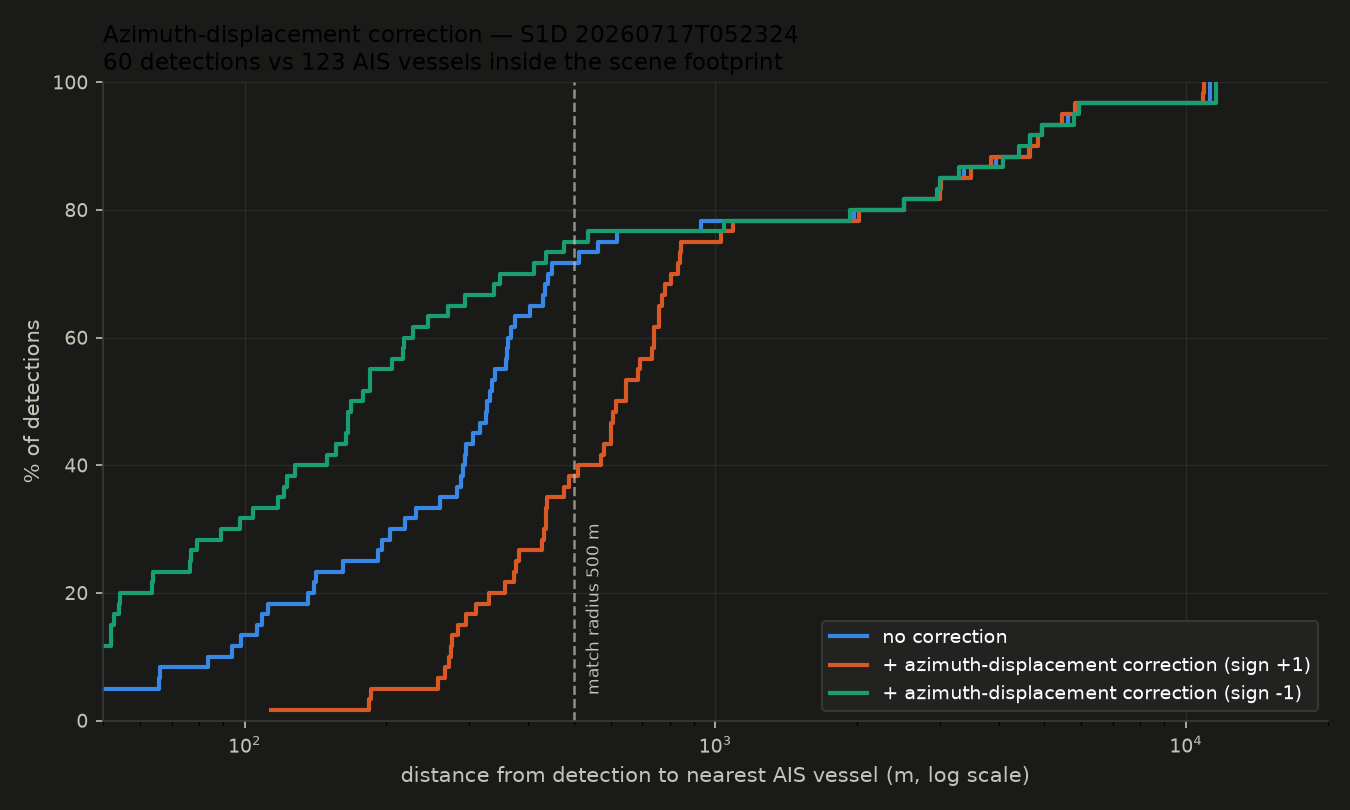
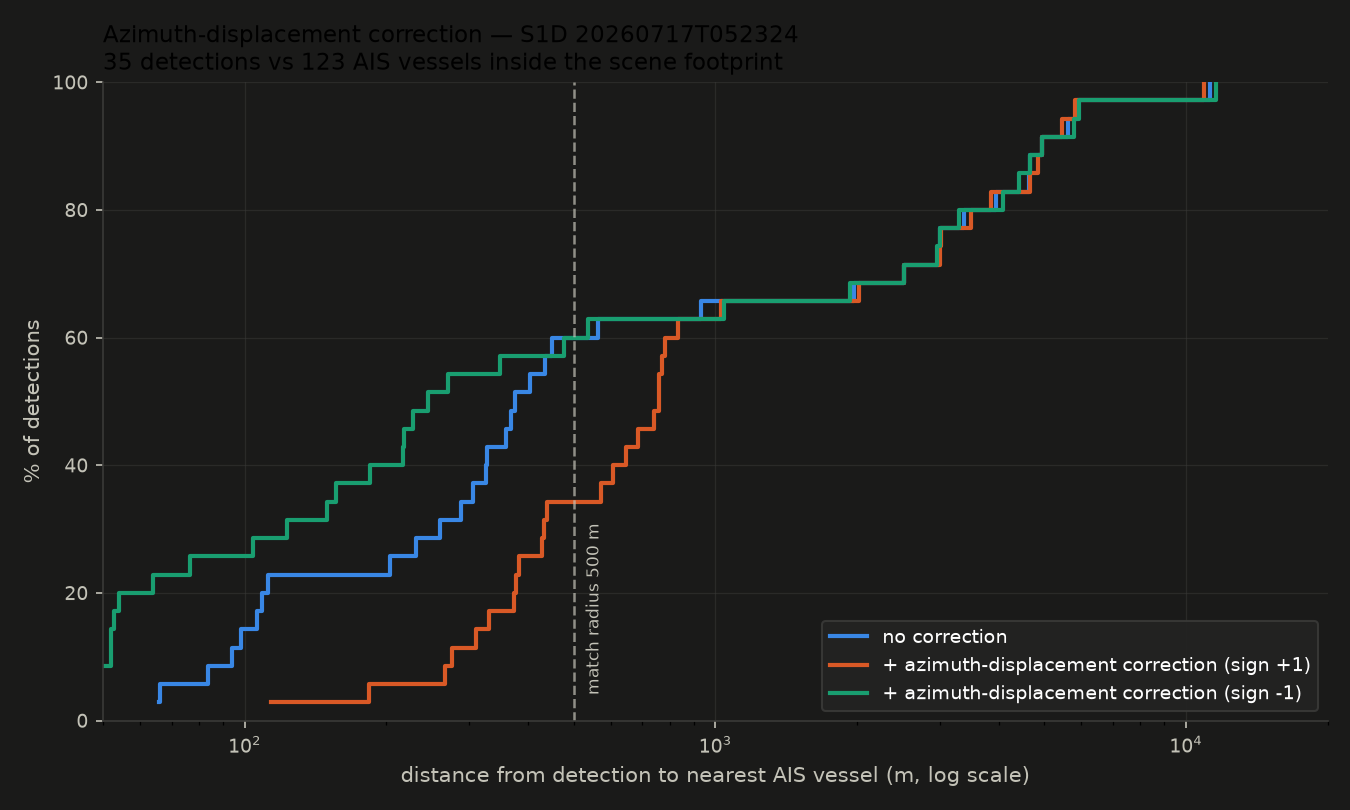
Figures that disagreed with the text underneath them, and counts that predate the merge
`docs/evidence/*.png` are committed snapshots copied by hand out of `data/out/`
and nothing enforces that they match. Four of them were still the 2026-08-03
snapshot, taken before 11761ed merged fragmented detections, so they had been
contradicting the prose around them for four days.

`length_agreement.png` was the loud one: "45 matched vessels, r = 0.198,
median 1.15x", sitting directly under text quoting r = 0.271 and 1.05x.
`chips_top.png` showed 48 chips for a 35-detection run. `overview.png` and
`azimuth_correction.png` both titled themselves 60 detections. All four are
replaced from `data/out/`, where the post-merge renders have been since Aug 4.

`map_result.png` is the one that could not be fixed by copying — `data/out/`
holds the same pre-merge bytes, because that render was never regenerated after
the merge. Its own title says 60 / 45 / 15. It is labelled as pre-merge in place
rather than quietly left to read as current; `make dark-proof` on a machine with
the granule fixes it properly.

Three tables carried pre-merge counts into a post-merge document:

- the azimuth-correction table claims 45 detections within 500 m, which is not
  possible against 35. It is the measurement that settled the sign, taken before
  merging, and now says so. Checked against the old plot: its curves at 100, 200
  and 500 m give exactly 19, 33 and 45 out of 60.
- "It generalises" gave 60 and 133 while the same file says 35 and 71 thirty
  lines away. Both rows now, labelled.
[…]

diff --git a/docs/detection.md b/docs/detection.md
@@ -58,7 +58,9 @@ between "matched" and "dark", so widening it to absorb a *predictable* offset bu
 at the same rate it avoids false darks. So it is computed, from the product's own annotation and
 from AIS SOG/COG.
 
-**The sign was derived one way and measured the other way, and the measurement won.**
+**The sign was derived one way and measured the other way, and the measurement won.** The counts
+are over the 60 detections this scene produced *before* fragment merging — the experiment that
+settled the sign predates that fix, and merging changes the denominator, not which sign wins:
 
 | | <100 m | <200 m | <500 m | median |
 |---|---|---|---|---|
@@ -67,6 +69,10 @@ from AIS SOG/COG.
 | correction, sign **−1** (as measured) | **19** | **33** | **45** | **173 m** |
 
 ![azimuth displacement correction](evidence/azimuth_correction.png)
+
+The plot is the current run — 35 detections, after merging — so its percentages sit over a
+smaller denominator than the table above. The separation between the three curves is the point,
+and it is unchanged.
 
 The wrong sign is about as far wrong as the right sign is right — the signature of a real
 systematic offset being corrected backwards. The derivation had assumed the processor places a
@@ -116,6 +122,12 @@ Matched detections carry an AIS fix inside them and sit in open water. The unmat
 cluster on the coastal edge — with two genuine open-water exceptions, which is exactly the kind
 of thing an analyst should be handed.
 
+**This map is the one render that predates fragment merging**, and its own title says so:
+60 detections, 45 matched, 15 unmatched. The spatial pattern it is shown for — matched offshore,
+unmatched hugging the coast — is what merging does not change, but the counts on it are the old
+ones. `make dark-proof` regenerates it; until that has been run on a machine with the granule on
+disk, read the counts from the table above and the geometry from here.
+
 Every detection at native resolution, and the AOI in radar geometry with the land mask drawn on
 it, are in [`docs/evidence/`](evidence). `make dark-proof` regenerates all of it into
 `data/out/`; the committed copies are the snapshot these numbers come from.
@@ -131,7 +143,8 @@ risk. Running the same configuration unchanged over a Lisbon-AOI granule — dif
 | water sigma0 / NESZ | −29.1 / −29.4 dB | −26.5 / −26.5 dB |
 | land-masked | 51.6% | 33.0% |
 | binding criterion | CFAR | CFAR |
-| detections | 60 | 133 |
+| detections, before fragment merging | 60 | 133 |
+| **detections, after merging** | **35** | **71** |
 
 No parameter touched, and the [chips](evidence/pt_chips.png) are unambiguous vessels — most
 of them showing the vertical azimuth smear of a moving target. That smear is also why lengths
@@ -163,13 +176,13 @@ transponder.
 
 This comparison is what first caught the detector counting one vessel several times. Before the
 merge step it reported 133 detections here, and 61% of the 84 GFW did not share sat within 200 m
-of one we had both found — fragments of the same hull, not extra vessels. With merging on,
+of one we *had* both found — fragments of the same hull, not extra vessels. With merging on,
 agreement is unchanged at 49 and the residue drops to 22, of which **none** is within 200 m of
 an agreed detection: median distance to the nearest, 26 km. What is left is genuinely isolated —
 extra sensitivity or extra false alarms, not double counting.
 
-Denmark settled the question properly afterwards, and cheaper: 45 matched detections there
-resolved to **18 distinct MMSIs**, and clustering at 100–300 m produced zero groups containing
+Denmark settled the question properly afterwards, and cheaper: the 45 pre-merge matched
+detections there resolved to **18 distinct MMSIs**, and clustering at 100–300 m produced zero groups containing
 more than one vessel. The ground truth was on the bench the whole time.
 
 Two detectors agreeing is weaker evidence than the AIS validation banked over Denmark — it says

diff --git a/docs/tools.md b/docs/tools.md
@@ -128,8 +128,9 @@ an efficiency argument and is a correctness one: detection ids are assigned *aft
 and AOI filters, so re-running renumbers them, and `ais_match(["…:det_00005"])` would silently
 mean a different vessel. Reuse is gated on identity of every recorded input — detector, version,
 polarisation, AOI box, coastline, and every field of `DetectorConfig`, which is checkable because
-`detect.runs.parameters` is jsonb. Measured: reused and recomputed give 60 detections that are
-byte-identical on id, position, length, heading and confidence, in 0.9 s against 13.9 s.
+`detect.runs.parameters` is jsonb. Measured: reused and recomputed give 60 detections — the count
+this scene gave before fragment merging — that are byte-identical on id, position, length,
+heading and confidence, in 0.9 s against 13.9 s.
 
 **`correlate` is bounded to one scene per call.** Reading a granule takes 14–20 s. The
 alternative — return a run id and let the client poll — needs a job table and a lifecycle, which

diff --git a/docs/agent.md b/docs/agent.md
@@ -75,7 +75,7 @@ The prompt layer and the schema layer both let it through. The check caught it.
   collapses matched detections 45 → 21 while unmatched barely moves, 15 → 14. Which is itself
   informative: the unmatched residue is *isolated*, not fragments of real ships.
 - **No AIS is loaded for Portugal, and the tools refuse rather than guess.** `ais_match` raises
-  instead of returning 133 unmatched detections, and `correlate` returns the detections with the
+  instead of returning 71 unmatched detections, and `correlate` returns the detections with the
   verdict withheld. "We searched a feed and found nothing" and "there was no feed to search" are
   different statements, and only the first one is a dark detection.
 - **Detected length is not a reliable size estimate.** Detecting at 8σ and measuring at the same

diff --git a/docs/NOTES.md b/docs/NOTES.md
@@ -1,6 +1,15 @@
 # NIGHTGLASS — Notes
 
-Decision log, things tried that failed, open questions.
+Decision log, things tried that failed, open questions. Newest first.
+
+Entries are kept as written, so they are a record rather than a summary and the numbers in an
+older one may have been superseded by a later one. Three working documents cited throughout —
+`PRE_DEV_GUIDE.md`, `EXECUTION_SPEC.md` and `docs/HANDOVER_M7.md` — were the briefs this was
+built against and were retired from the repository once it could speak for itself. The citations
+are left in place because removing them would edit the record; the files are in git history.
+
+[`../README.md`](../README.md) is the current state, and [`README.md`](README.md) indexes the
+deep dives.
 
 ---
 
